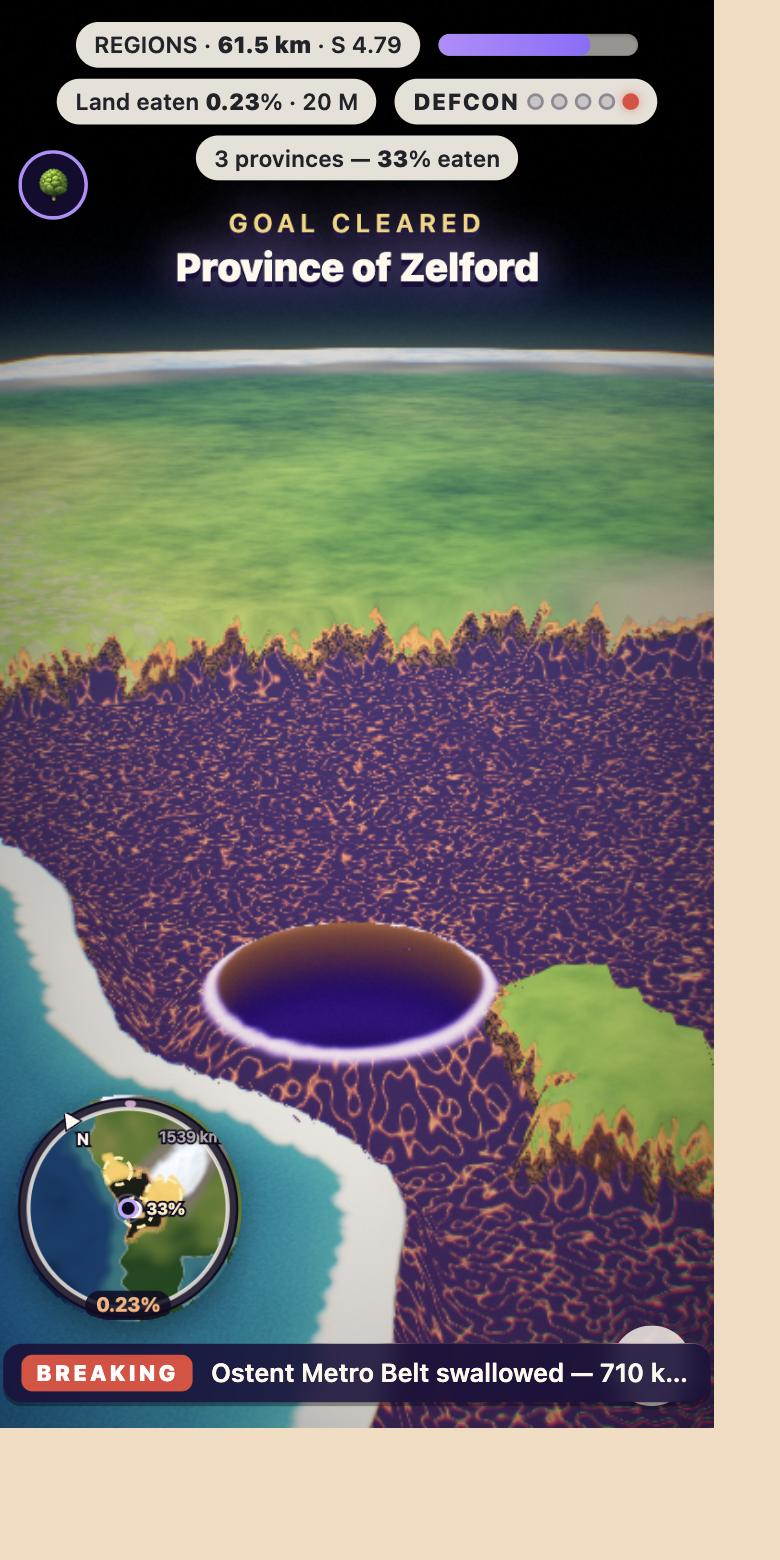
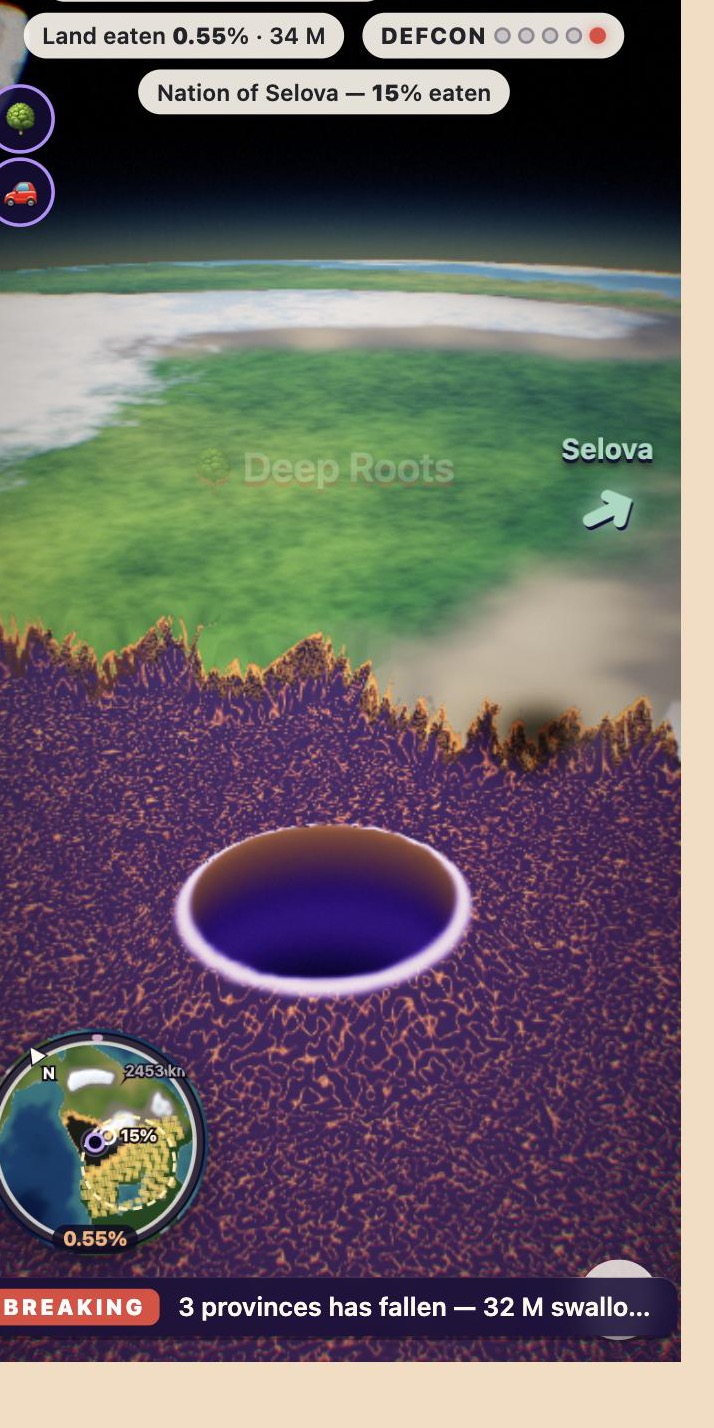
Phase 3 R4: camera-anchored Moon (counts in the ladder below 1737 km), arrow clamped below the HUD, plural goal news, late-game ladder numbers, cropped phone shot

diff --git a/src/planetgame.js b/src/planetgame.js
@@ -268,7 +268,7 @@ export class PlanetGame {
       const g = G.g;
       state.goalDone[G.idx] = state.time;
       ctx.card('Goal cleared', g.name);
-      news.say(`${g.name} has fallen — ${popStr(state.pop || 0)} swallowed so far`);
+      news.say(`${g.name} ${/provinces|nations/.test(g.kind) ? 'have' : 'has'} fallen — ${popStr(state.pop || 0)} swallowed so far`);
       sfx.levelUp(); ctx.draft?.();
       G.g = lf.makeGoal(KINDS[++G.idx], W.hdir); pr = lf.progress(G.g);
     }
@@ -287,7 +287,7 @@ export class PlanetGame {
   /**
    * window.__planetLadder(): the "always something smaller and larger" rule (§4.2, §12.3) as pure table queries (no placement, no patch):
    * 20 random land spots per tier at a random size in the tier. A spot passes with >= 3 meals (a unit with 0.1-0.9 pi r^2 of land left,
-   * centroid within 8 r) and >= 1 bigger thing (a unit with more than pi r^2 left within 15 r of its rim, or at T1 a wall: a column above 0.12 r within 15 r).
+   * centroid within 8 r) and >= 1 bigger thing (a unit with more than pi r^2 left within 15 r of its rim, at T1 a wall (a column above 0.12 r within 15 r), or the Moon while r < 1737 km). `noLand` counts the spots that pass only on the Moon.
    * `rEqMeals` counts the strict "0.1-0.9 r" reading (equivalent radius) for reference.
    */
   ladderTest(ctx, per = 20) {
@@ -311,7 +311,9 @@ export class PlanetGame {
         }
         if (tier === 1 && !bigger) for (let q = 0; q < 24 && !bigger; q++) if (W.P.elevation(W.P.step(d, Math.random() * 6.283, (2 + Math.random() * 13) * r), 4) > 0.12 * r) bigger++;
         o.meals.push(meals); o.rEqMeals.push(strict); o.bigger.push(bigger);
-        if (meals >= 3 && bigger >= 1) { o.pass++; out.total.pass++; } else { o.fail++; out.total.fail++; o.fails.push({ r: Math.round(r / 1000), meals, bigger }); }
+        const moon = r < 1737400 ? 1 : 0; // the Moon is in the sky (an impostor, always in frame) and bigger than the hole until r = 1737 km
+        if (!bigger) o.noLand = (o.noLand || 0) + 1; // spots whose only bigger thing is the Moon (or nothing, past 1737 km)
+        if (meals >= 3 && (bigger >= 1 || moon)) { o.pass++; out.total.pass++; } else { o.fail++; out.total.fail++; o.fails.push({ r: Math.round(r / 1000), meals, bigger }); }
       }
     }
     return out;

diff --git a/src/planetglobe.js b/src/planetglobe.js
@@ -822,10 +822,13 @@ export class PlanetGlobe {
     const alt = camera.position.y - this.group.position.y - R, hi = alt > 120000;
     this.sky.visible = this.atmo.visible = this.moon.visible = hi;
     const far = camera.far * 0.9;
-    // the Moon (r 1737 km at 12 R) is far past the far plane from T1 to T4: draw it as an impostor on the same ray at 0.85 far with the same angular size (it is the sky's "larger thing", §12.3)
-    const mw = _mw.copy(this._moonLocal ??= this.moon.position.clone()).applyQuaternion(this.group.quaternion).add(this.group.position).sub(camera.position), md = mw.length(), kk = Math.min(1, (0.85 * far) / md);
-    this.moon.position.copy(mw.multiplyScalar(kk).add(camera.position).sub(this.group.position).applyQuaternion(_mq.copy(this.group.quaternion).invert()));
-    this.moon.scale.setScalar(1737400 * kk);
+    // the game's Moon (§12.3 "always something larger"): the real one (r 1737 km at 12 R) is far past the far plane from T1 to T4, so with `moonSky` it is an impostor anchored to the camera:
+    // top left of the frame, on the sky band, at 0.85 far with the true angular size (1.3 deg radius). The camera never turns, so a fixed spot reads as a moon hanging over the limb.
+    if (this.moonSky) {
+      const hh = Math.tan(THREE.MathUtils.degToRad(camera.fov / 2)), hw = hh * camera.aspect, dm = 0.85 * far;
+      _mw.set(-0.93 * hw, 0.8 * hh, -1).applyQuaternion(camera.quaternion).normalize().multiplyScalar(dm).add(camera.position).sub(this.group.position).applyQuaternion(_mq.copy(this.group.quaternion).invert());
+      this.moon.position.copy(_mw); this.moon.scale.setScalar(dm * 1737400 / (R * 12));
+    }
     this.dome.position.copy(camera.position);
     this.dome.scale.setScalar(far);
     this.uStarR.value = far * 0.98;

diff --git a/src/main.js b/src/main.js
@@ -582,7 +582,10 @@ function edgeArrow(id, target, glyph, color) {
   el.hidden = !target || !state.playing;
   if (el.hidden) return;
   const a = Math.atan2(target[1] - hole.z, target[0] - hole.x), rad = Math.min(innerWidth, innerHeight) * 0.4;
-  el.style.transform = `translate(${Math.cos(a) * rad}px, ${Math.sin(a) * rad}px)`;
+  let ay = Math.sin(a) * rad;
+  const hb = $('hud').classList.contains('p3') ? $('hud').getBoundingClientRect().bottom + 44 - innerHeight / 2 : -1e9; // (Phase 3: keep the arrow and its label below the HUD pills)
+  if (ay < hb) ay = hb;
+  el.style.transform = `translate(${Math.cos(a) * rad}px, ${ay}px)`;
   el.firstChild.style.transform = `rotate(${a}rad)`;
   el.lastChild.textContent = glyph;
   el.style.setProperty('--c', color);

diff --git a/src/planet.js b/src/planet.js
@@ -339,6 +339,7 @@ export class PlanetWorld {
     post.opts.ao = false; post.opts.shafts = false; post.build(); // (no AO on a planet; one rebuild, under the loading line)
     post.setPreset({ lut: { shadow: [0.99, 1.0, 1.03], high: [1.03, 1.0, 0.97], sat: 1.06, con: 1.05 }, shafts: 0 });
     scene.add(this.globe.group, this.globe.sky);
+    this.globe.moonSky = true; // (the Moon as a camera-anchored impostor, planetglobe.update)
     this.scene = scene; this.ctx = { camera, look, post, renderer, sun };
     sun.shadow.autoUpdate = false; // (never toggle castShadow at runtime: it breaks ShadowNode)
     sun.intensity = 4.2;

diff --git a/docs/PHASE3.md b/docs/PHASE3.md
@@ -915,11 +915,11 @@ Commits "Phase 3 R1 / R2 / R3". Screens: `docs/screens/phase3-scale-*.jpg`. Food
 
 Commit "Phase 3 R4". `src/food.js` is deleted (git rm); `H5`/`rng`/`nameOf` live in landforms.js; `?food` and the debug `look` / `lookKind` / `crumb` are gone.
 
-- **Goals, HUD, tier-up:** `Landforms.makeGoal / progress / done / target` (landforms.js), `PlanetGame.goalTick` (2 Hz): chain above, banner "Goal cleared", news with the population ("… has fallen - 1.24 B swallowed so far"), `ctx.draft()` (note: it offers the Phase 2 perk pool, most of it meaningless on a planet; only Swift, Slow Burn and the like do anything). Win: `state.won`, banner "THE WORLD IS EATEN". HUD: size pill, belly, "Land eaten 12.4% · 1.24 B", goal pill, DEFCON; the pills do not wrap inside themselves any more (`#hud.p3`, they wrap as whole pills on narrow screens, the goal on its own row at phone width). Tier-up: hitstop + slow-mo + name card (REGIONS / NATIONS / CONTINENTS / THE WORLD) + news with the population. `News` shows the counter in billions from 100 M.
+- **Goals, HUD, tier-up:** `Landforms.makeGoal / progress / done / target` (landforms.js), `PlanetGame.goalTick` (2 Hz): chain above, banner "Goal cleared", news with the population ("… has fallen - 1.24 B swallowed so far"), `ctx.draft()` (note: it offers the Phase 2 perk pool, most of it meaningless on a planet; only Swift, Slow Burn and the like do anything). Win: `state.won`, banner "THE WORLD IS EATEN". HUD: size pill, belly, "Land eaten 12.4% · 1.24 B", goal pill, DEFCON; the arrow is clamped below the pills in Phase 3 (`edgeArrow`); the pills do not wrap inside themselves any more (`#hud.p3`, they wrap as whole pills on narrow screens, the goal on its own row at phone width). Tier-up: hitstop + slow-mo + name card (REGIONS / NATIONS / CONTINENTS / THE WORLD) + news with the population. `News` shows the counter in billions from 100 M.
 - **Minimap:** `extent = clamp(25 r, 1000 km, 1.07 R)`; goal stipple / rings / chevrons (above); the wound is a dark ember scar with a hot rim and a pulsing halo (8 wider taps of the bite map) so a thin swath still glows; the % gauge and the `1.24%` chip stay. Checked at 1085 px, 800 px and 390 px (124 px map) and on `?webgl`.
 - **The accounting bug R4 found:** `chew` and `shrinkAll` computed the credit and `left` from the float `d` but stored the 16-bit rounded `rem`, so every parcel kept ~0.003 km² of phantom land (0.75% of the world: **99.25% was the ceiling, no bot could win**, and the "stalled at 91% / 96.5%" runs of R3 chased specks). Both now remove whole 16-bit steps (at least one) and account for exactly those: `__planetUnits().truth()` (Σ rem × area over every texel) agrees with `bite.sum` to 1e-12.
 - **Bot** (`planetSteer`): districts within 8 r (provinces from 160 km, nations from 520 km), score `left / (d + 2 r)`, ×6 inside the current goal, ×1.3 for the current target, human picks among the best 3; drives at the nearest standing parcel ≥ 0.9 r away (a swath carries on); follows the goal arrow while its target is within 12 r; hunt from 97% (the arrow's landmass); wall sidestep on a 3.5 r look-ahead plus the 3 s stuck turn. Islets: the pull-in radius is 3 r (was 2.5). `__planetBot(seconds, who)` (sync), `__planetBotAsync` (sliced, poll `__botRun`), `__planetSweep(n, seconds, who)` (rows in `__sweep`: minutes per tier, land % at the tier-ups, goal times, income shares, decay share).
-- **Ladder:** `__planetLadder()` is now pure table queries (no placement): 20 land spots per tier; a spot passes with ≥ 3 meals (units with 0.1-0.9 πr² of land left, centroid within 8 r) and ≥ 1 bigger thing (a unit with > πr² left within 15 r of its rim; at T1 a wall > 0.12 r also counts). 80/80 on seeds 7, 3, 11, 1, 5, on a fresh world and after 500 s of bot play. The strict "0.1-0.9 r" reading is returned as `rEqMeals`. The Moon is drawn again (impostor on the far plane at its true angular size, 1.3° radius) but is not counted: it is rarely in frame, and above r = 1737 km it is smaller than the hole; late T4's "larger" thing is the remaining continents (some late spots would fail: the world ends with nothing larger, by design).
+- **Ladder:** `__planetLadder()` is now pure table queries (no placement): 20 land spots per tier; a spot passes with ≥ 3 meals (units with 0.1-0.9 πr² of land left, centroid within 8 r) and ≥ 1 bigger thing (a unit with > πr² left within 15 r of its rim; at T1 a wall > 0.12 r also counts). 80/80 on seeds 7, 3, 11, 1, 5, on a fresh world and after 500 s of bot play. The strict "0.1-0.9 r" reading is returned as `rEqMeals`. The Moon is a camera-anchored impostor (`globe.moonSky`: top left of the frame at 0.85 far, true angular size, 1.3° radius; half behind the limb at T2-T3, whole at T4) and counts as the "larger" thing while r < 1737 km (`noLand` = spots that pass only on it). **Late game:** T4 spots, same world after bot play: 63.7% eaten 20/20; 90% eaten 10/20 (fails: r > 1.7k km with no larger land left, meals 6-8); 98.9% eaten 2/20 (the hunt: 1 meal, specks). Above r = 1737 km the hole is the biggest thing by design; the World-Eater (step 9) is the eventual "larger". The T1-T3 rows are only meaningful on a fresh world (a player cannot be T1-sized on an eaten one).
 - **Balance** (docs/BALANCE.md "Phase 3"): G anchors 0.035 / 0.05 / 0.08 / 0.13 / 0.2 / 0.3 at 40 / 150 / 450 / 1000 / 1600 / 2600 km, `speedExp` -0.30 (was -0.22), `collapseK` 0.3, starving decay 0.5%/s (was 0.8) and faded out between 67% and 97% land (`huntSoft`). 9 of 9 runs on seeds 7 / 3 / 11 win in 18.3-23.9 min; tear share 31-38%.
-- Screens: `docs/screens/phase3-hud-desktop.jpg` (Nation goal, minimap tint + wound, `?webgl`), `phase3-hud-phone.jpg` (390 px: pills wrap, goal banner).
+- Screens: `docs/screens/phase3-hud-desktop.jpg` (Nation goal, minimap tint + wound, `?webgl`), `phase3-hud-phone.jpg` (390 px: pills wrap, arrow below the HUD, goal tint on the 124 px map).
 - **Known issues:** the tear share is 31-38% (target 15-30%: 0.2 gets 23% but 29-minute games, and the swath ratio would need the G anchors up with it); T1 on seed 11 takes 7+ min and seed 5 is slow overall (25.9-28.8 min, T2/T3 8-10 min: a poor start and long crossings); r_end is 1.2-1.9k km, not 2.3k; goals are cleared late if the player ignores the arrow (the bot follows it only within 12 r); the draft offers the Phase 2 perks.
